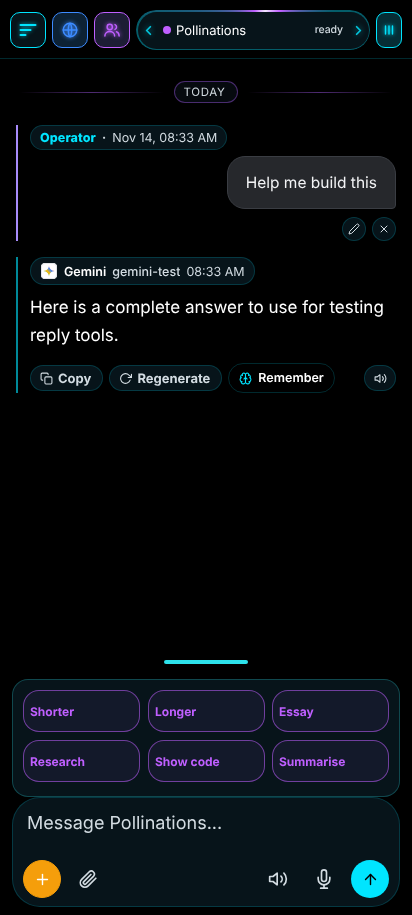
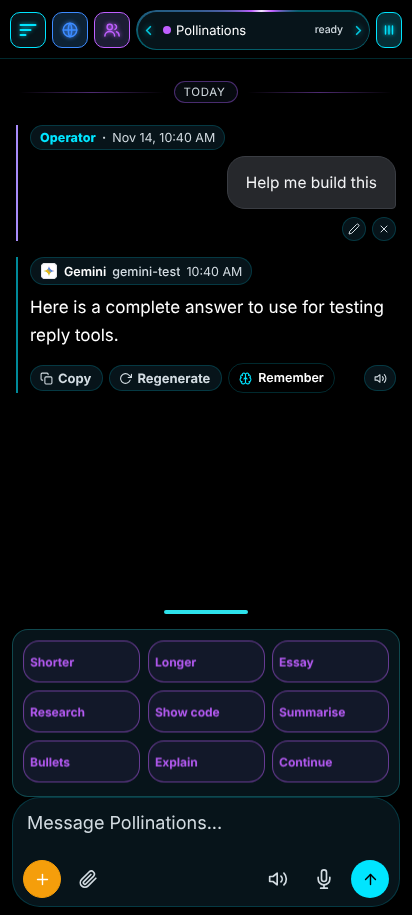
feat: V1.93.9 - Panel Presets

Changed region(s): [[0.0291, 0.6426, 0.9903, 0.8568], [0.4369, 0.2754, 0.6408, 0.306], [0.3786, 0.1224, 0.5534, 0.153]]

diff --git a/www/horizon_chips.js b/www/horizon_chips.js
@@ -1,9 +1,9 @@
 /* Composer edge actions. No polling; updates are coalesced and focus stays in the editor. */
 (function () {
  'use strict';
- var items=[['Shorter','Make that shorter. Keep the key points.'],['Longer','Expand that with useful detail, without filler.'],['Essay','Turn that into a structured essay.'],['Research','Research that using available sources. Cite sources actually retrieved and state when browsing is unavailable.'],['Show code','Show complete working code for that.'],['Summarise','Summarise that clearly.']];
+ var items=[['Shorter','Make that shorter. Keep the key points.'],['Longer','Expand that with useful detail, without filler.'],['Essay','Turn that into a structured essay.'],['Research','Research that using available sources. Cite sources actually retrieved and state when browsing is unavailable.'],['Show code','Show complete working code for that.'],['Summarise','Summarise that clearly.'],['Bullets','Turn that into clear bullet points. Keep every key point.'],['Explain','Explain that in plain words, step by step, no jargon.'],['Continue','Continue from exactly where that stopped. Do not repeat anything already written.']];
  var host,bar,handle,menu,queued=false;
- function paint(){queued=false;if(!bar||!host)return;var last=host.last();var usable=!!last&&!last.img&&!host.busy();bar.classList.toggle('hz-idle',!usable);handle.setAttribute('aria-label',usable?'Chat presets: shorter, longer, essay, research, show code, summarise':'Chat presets: they work on an AI reply');}
+ function paint(){queued=false;if(!bar||!host)return;var last=host.last();var usable=!!last&&!last.img&&!host.busy();bar.classList.toggle('hz-idle',!usable);handle.setAttribute('aria-label',usable?'Chat presets: shorter, longer, essay, research, show code, summarise, bullets, explain, continue':'Chat presets: they work on an AI reply');}
  function refresh(){if(!queued){queued=true;requestAnimationFrame(paint);}}
  function init(h){if(bar||!h||!h.anchor||!h.anchor.parentNode)return;host=h;bar=document.createElement('div');bar.className='hz-edge-tools';bar.id='hzEdgeTools';handle=document.createElement('button');handle.type='button';handle.className='hz-edge-handle';handle.setAttribute('aria-expanded','false');handle.setAttribute('aria-controls','hzEdgeMenu');handle.innerHTML='<span aria-hidden="true"></span>';menu=document.createElement('div');menu.id='hzEdgeMenu';menu.className='hz-edge-menu';menu.hidden=true;menu.setAttribute('role','group');menu.setAttribute('aria-label','Reply tools');items.forEach(function(c){var b=document.createElement('button');b.type='button';b.className='hz-chip';b.textContent=c[0];b.addEventListener('click',function(){var last=host.last();if(host.busy()||!last||last.img){if(host.notice)host.notice(host.busy()?'Wait for the reply to finish.':'Presets work on an AI reply. Send a message first.','error');return;}menu.hidden=true;handle.setAttribute('aria-expanded','false');host.send((last.group&&last.name?'@'+last.name.toLowerCase()+' ':'')+c[1]);});menu.appendChild(b);});bar.append(handle,menu);h.anchor.parentNode.insertBefore(bar,h.anchor);bar.addEventListener('pointerdown',function(e){if(e.target.closest('button'))e.preventDefault();});handle.addEventListener('click',function(){menu.hidden=!menu.hidden;handle.setAttribute('aria-expanded',String(!menu.hidden));});var sy=null,swiped=false;function setOpen(o){menu.hidden=!o;handle.setAttribute('aria-expanded',String(o));}handle.addEventListener('touchstart',function(e){sy=e.touches[0].clientY;swiped=false;},{passive:true});handle.addEventListener('touchend',function(e){if(sy===null)return;var dy=e.changedTouches[0].clientY-sy;sy=null;if(Math.abs(dy)>18){swiped=true;setOpen(dy<0);}},{passive:true});handle.addEventListener('click',function(e){if(swiped){swiped=false;e.stopImmediatePropagation();}},true);document.addEventListener('pointerdown',function(e){if(!bar.contains(e.target)){menu.hidden=true;handle.setAttribute('aria-expanded','false');}});bar.addEventListener('keydown',function(e){if(e.key==='Escape'){menu.hidden=true;handle.setAttribute('aria-expanded','false');handle.focus();}});var cm=document.getElementById('chatMessages');if(cm)new MutationObserver(refresh).observe(cm,{childList:true});document.addEventListener('visibilitychange',refresh);paint();}
  window.HorizonChips={init:init,refresh:refresh};

diff --git a/www/horizon_app.css b/www/horizon_app.css
@@ -3955,6 +3955,7 @@ html.hz-lite *, html.hz-lite *::before, html.hz-lite *::after { box-shadow: none
 .hz-edge-handle:focus-visible{outline:2px solid #2de2eb;outline-offset:-3px;border-radius:10px}
 .hz-edge-menu{display:grid;grid-template-columns:repeat(3,minmax(0,1fr));gap:8px;padding:10px 10px 14px;border:1px solid #2de2eb40;border-radius:16px;background:var(--surface,#101a20);box-shadow:0 8px 22px #0002}
 .hz-edge-menu[hidden]{display:none}.hz-edge-menu .hz-chip{min-height:42px;white-space:normal;padding:8px 6px;font-size:12px;width:100%}
+.hz-edge-menu .hz-chip:last-child:nth-child(odd){grid-column:auto}
 .hz-wa-pin{display:flex;align-items:center;gap:6px;padding:4px 10px;width:100%;min-width:0}.hz-wa-pin button:first-child{flex:1;overflow:hidden;text-overflow:ellipsis;white-space:nowrap;text-align:left;color:#2de2eb}.hz-wa-pin button:last-child{min-width:40px}
 .hz-wa-editor{margin:auto;color:inherit;background:var(--surface,#10191e);border:1px solid #2de2eb55;border-radius:22px;padding:20px;max-width:480px;width:calc(100% - 24px);max-height:85dvh;overflow:auto;box-sizing:border-box;box-shadow:0 20px 70px #0007}
 .hz-wa-editor::backdrop{background:#0009}.hz-wa-editor textarea{display:block;width:100%;box-sizing:border-box;min-height:90px;resize:vertical;background:transparent;color:inherit;border:1px solid #74828b70;border-radius:12px;padding:12px;margin:10px 0;font:inherit;font-size:14px}.hz-wa-editor textarea:last-of-type{min-height:160px}

diff --git a/www/index.html b/www/index.html
@@ -11,7 +11,7 @@
     <script>(function(){try{var t=localStorage.getItem('horizon_theme');if(t!=='grey')t='cyan';document.documentElement.setAttribute('data-theme',t==='grey'?'grey':'neon');document.documentElement.setAttribute('data-accent',t);var m=document.querySelector('meta[name=theme-color]');if(m)m.setAttribute('content',t==='grey'?'#eceef1':'#000000');}catch(e){}})();</script>
     <style>html.hz-boot{background:#000}html.hz-boot[data-theme="grey"]{background:#eceef1}html.hz-boot body{visibility:hidden}</style>
     <script>(function(){var d=document.documentElement;d.classList.add('hz-boot');setTimeout(function(){d.classList.remove('hz-boot');},4000);})();</script>
-    <link rel="stylesheet" href="horizon_app.css?v=1.93.8">
+    <link rel="stylesheet" href="horizon_app.css?v=1.93.9">
 </head>
 <body>
 
@@ -740,7 +740,7 @@
     <script src="horizon_hold.js?v=1.93.8"></script>
     <script src="horizon_group.js?v=1.93.8"></script>
     <script src="horizon_round.js?v=1.93.8"></script>
-    <script src="horizon_chips.js?v=1.93.8"></script>
+    <script src="horizon_chips.js?v=1.93.9"></script>
     <script src="horizon_vault.js?v=1.93.8"></script>
     <script src="horizon_attach.js?v=1.93.8"></script>
     <script src="horizon_creator.js?v=1.93.8"></script>
